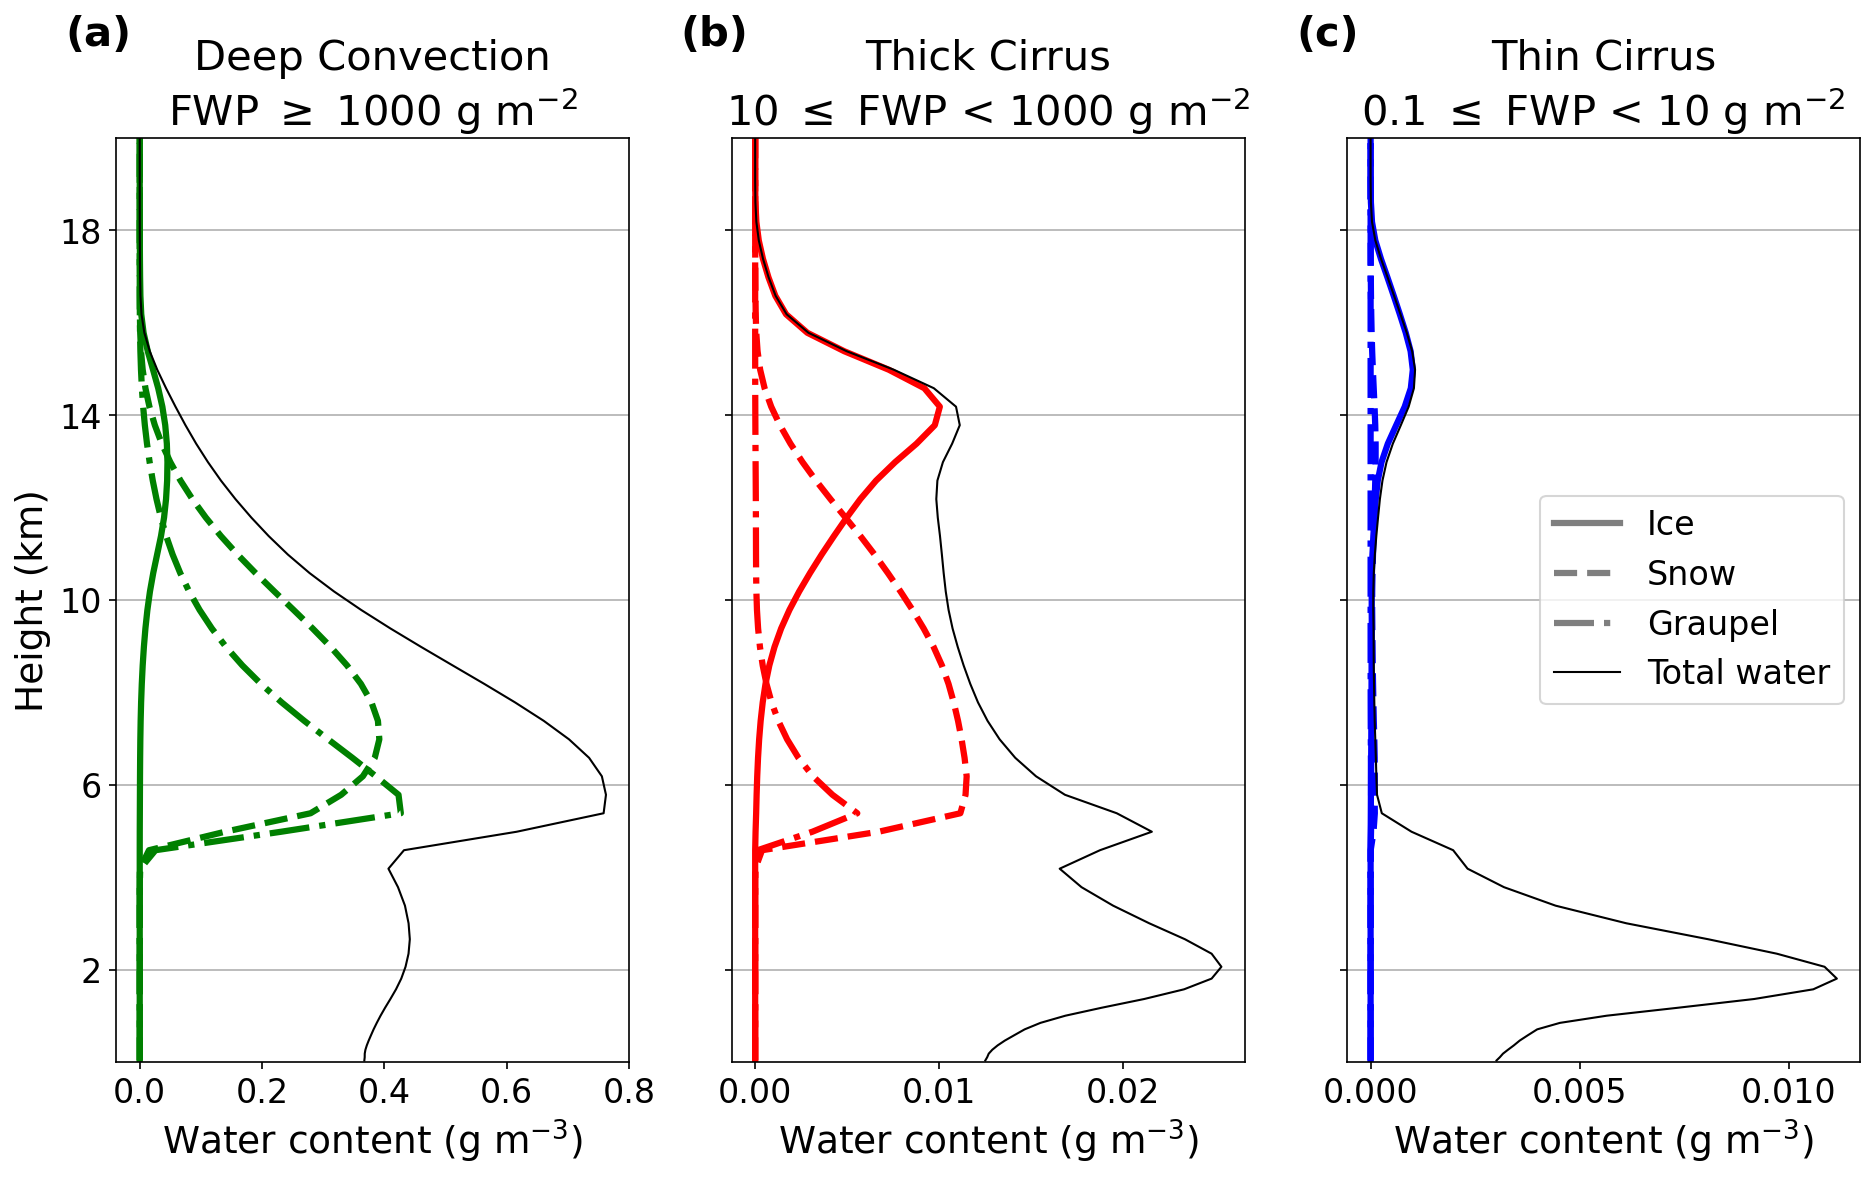
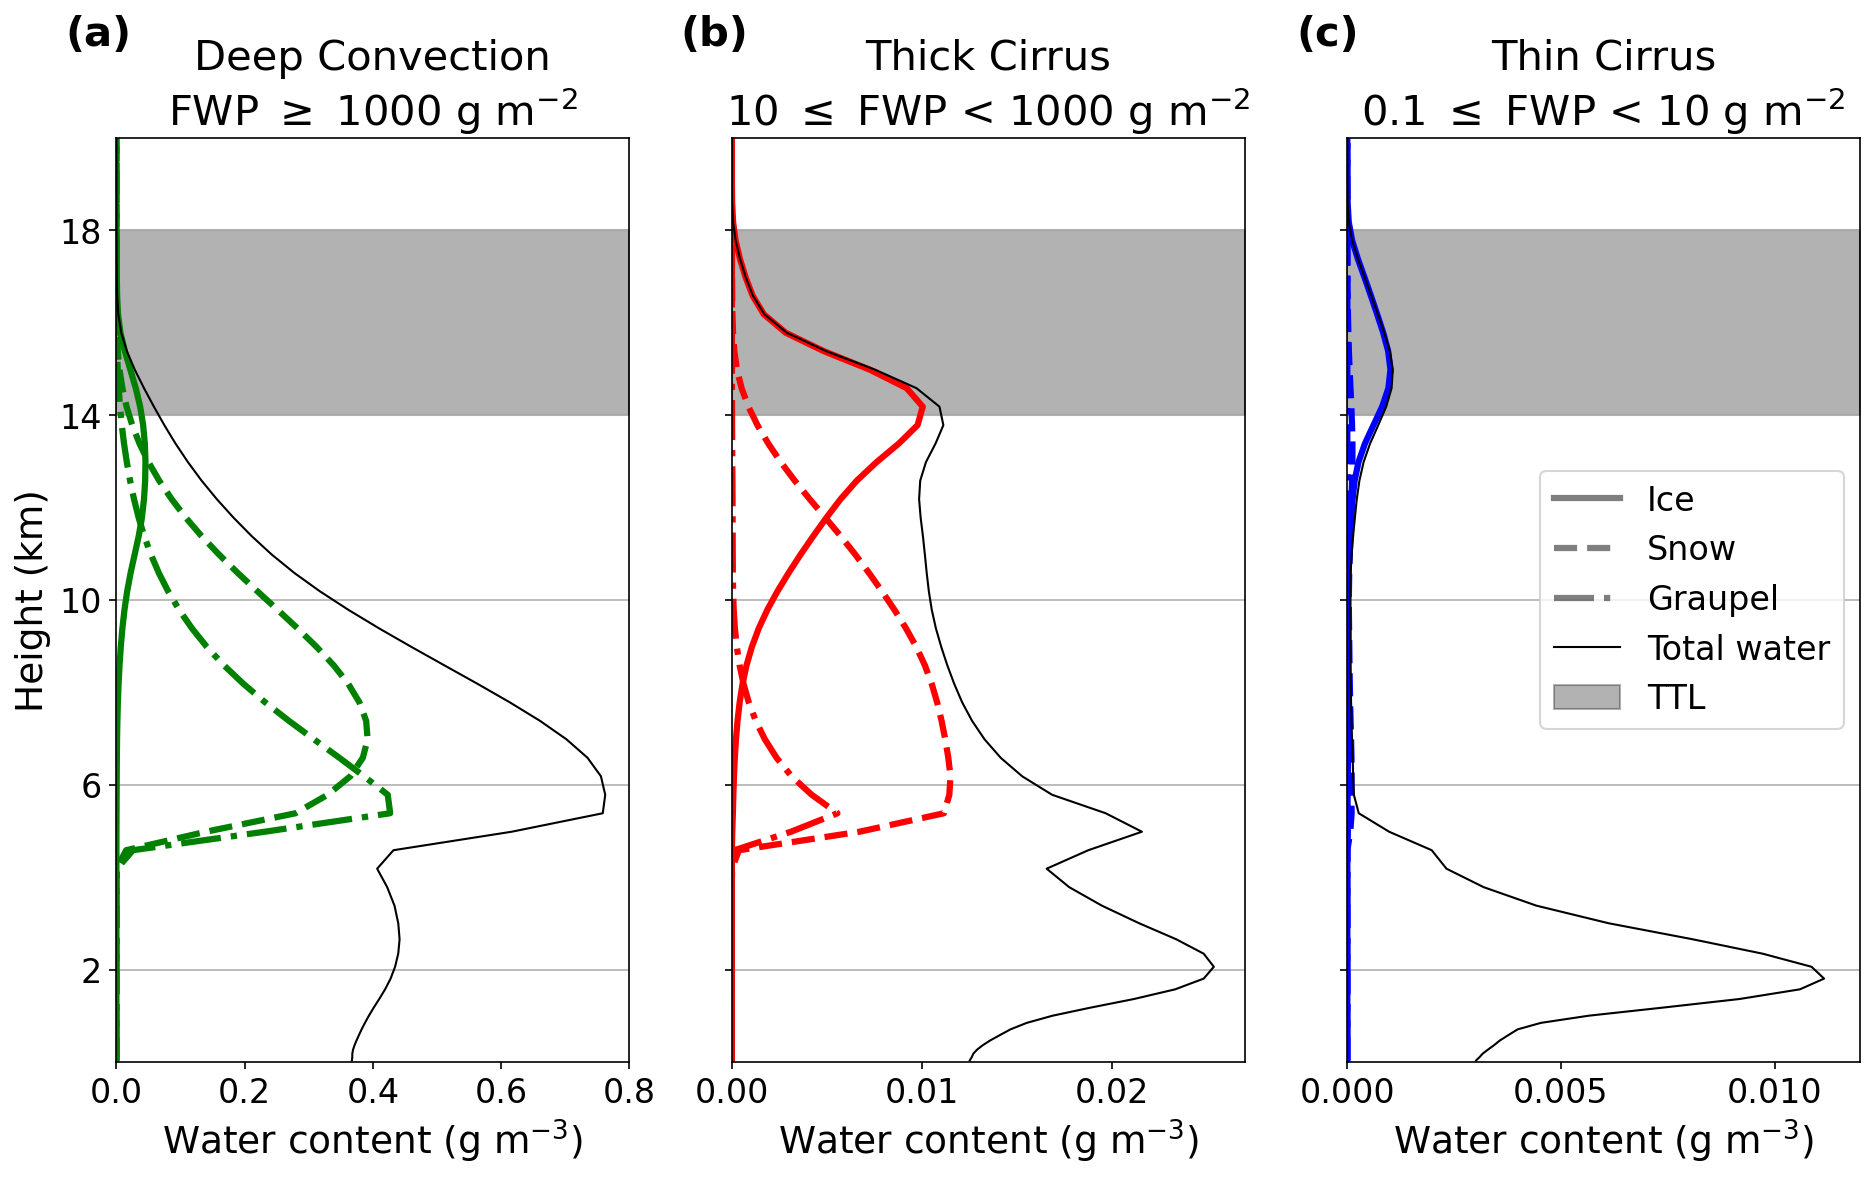
updates from reviewer feedback

diff --git a/python_scripts/fig11_iwp_all_regions.py b/python_scripts/fig11_iwp_all_regions.py
@@ -2,10 +2,10 @@
 """ fig11_iwp_all_regions.py
     Author: Sami Turbeville
     Updated: 18 Feb 2021
-    
+   
     This script reads in the frozen water path for FV3,
     SAM, GEOS, ICON and FV3. It then plots the histograms
-    compared to DARDAR. 
+    compared to DARDAR.
 """
 
 import numpy as np
@@ -191,9 +191,10 @@ print("creating figure...")
 # iax = fig.add_subplot(gs[1,1])
 # sax = fig.add_subplot(gs[1,2])
 
-fig, [[cax, nax, fax],[lax, iax, sax]] = plt.subplots(3,2,
+fig, [[cax, nax, fax],[lax, iax, sax]] = plt.subplots(2,3,
                                             sharey=True, sharex=True,
-                                            figsize=(20,8))
+                                            figsize=(21,8))
+lax.axis("off")
 
 s = 'tab:orange'
 n = 'tab:purple'
@@ -217,8 +218,8 @@ sax.axvline(3, color="k", alpha=0.4, linestyle="dashed")
 sax.axvline(1, color="k", alpha=0.4, linestyle="dashed")
 sax.axvline(-1, color="k", alpha=0.4, linestyle="dashed")
 
-cax.step(xedges[1:], chist_twp, t, label='TWP')
 cax.step(xedges[1:], chist_shl, s, label='SHL')
+cax.step(xedges[1:], chist_twp, t, label='TWP')
 cax.step(xedges[1:], chist_nau, n, label='NAU')
 
 fax.step(xedges[1:], fhist_twp, color=t)
@@ -383,24 +384,24 @@ sno = int(np.nanmean([sno_twp, sno_shl, sno_nau]))
 # iax.set_title("ICON\n {:} profiles".format(ino), size=17)
 # sax.set_title("SAM \n {:} profiles".format(sno), size=17)
 
-sax.set_xlabel("log$_{10}$FWP (g/m$^{-2}$)", fontsize=fs-2)
-cax.set_xlabel("log$_{10}$FWP (g/m$^{-2}$)", fontsize=fs-2)
-iax.set_xlabel("log$_{10}$FWP (g/m$^{-2}$)", fontsize=fs-2)
+sax.set_xlabel("log$_{10}$FWP (g~m$^{-2}$)", fontsize=fs)
+cax.set_xlabel("log$_{10}$FWP (g~m$^{-2}$)", fontsize=fs)
+iax.set_xlabel("log$_{10}$FWP (g~m$^{-2}$)", fontsize=fs)
 
 # cax.set_xticklabels([])
 # iax.set_xticklabels([])
-fax.set_xticklabels([])
-nax.set_xticklabels([])
-nax.set_yticklabels([])
-fax.set_yticklabels([])
-sax.set_yticklabels([])
+# fax.set_xticklabels([])
+# nax.set_xticklabels([])
+# nax.set_yticklabels([])
+# fax.set_yticklabels([])
+# sax.set_yticklabels([])
 sax.set_title("SAM", fontsize=fs+2)
 nax.set_title("NICAM", fontsize=fs+2)
 fax.set_title("FV3", fontsize=fs+2)
 iax.set_title("ICON", fontsize=fs+2)
 cax.set_title(obs, fontsize=fs+2)
-cax.set_ylabel("Fraction of profiles", fontsize=fs-2)
-iax.set_ylabel("Fraction of profiles", fontsize=fs-2)
+cax.set_ylabel("Fraction of profiles", fontsize=fs)
+iax.set_ylabel("Fraction of profiles", fontsize=fs)
 cax.tick_params(labelsize=fs-2)
 iax.tick_params(labelsize=fs-2)
 sax.tick_params(labelsize=fs-2)
@@ -414,7 +415,7 @@ sax.annotate("(e)", xy=(-0.1, 1.1), xycoords="axes fraction", fontsize=fs+4, wei
 cax.tick_params(labelsize=fs-4)
 
 h,l = cax.get_legend_handles_labels()
-fig.legend(h,l,bbox_to_anchor=(0.2,0.4), fontsize=fs, title="Regions", title_fontsize=fs+6)
+lax.legend(h,l,loc="center", fontsize=fs, title="Regions", title_fontsize=fs+6)
 
 ticks = np.arange(-3,4,1)
 cax.set_xticks(ticks)

diff --git a/python_scripts/fig02_3drendering_fv3.py b/python_scripts/fig02_3drendering_fv3.py
@@ -78,22 +78,15 @@ fs = 14
 fig = plt.figure(figsize=(15,7))
 ax = fig.add_subplot(111, projection="3d")
 ax.view_init(30,-255) #-220
-sc = ax.scatter((x3d[::zskip,::xskip,::yskip]).flatten()[in_cloud], \
-                (y3d[::zskip,::xskip,::yskip]).flatten()[in_cloud], \
+sc = ax.scatter((y3d[::zskip,::xskip,::yskip]).flatten()[in_cloud], \
+                (x3d[::zskip,::xskip,::yskip]).flatten()[in_cloud], \
                 (z3d[::zskip,::xskip,::yskip]).flatten()[in_cloud]/1000,\
                 c=(qn[::zskip,::xskip,::yskip].values.flatten())[in_cloud], \
                 edgecolors='face', vmax=0.6, vmin=0.1,\
                 s=4*xskip, cmap=new_cmap, depthshade=True) #vmax = np.max(qn[:,:,:])/1.5,
-# if not(is_one_by_one):
-#     ax.plot([  0,  0,  -1,  -1,  0,  0, 0, -1, -1, 0],
-#             [147,148,148,147,147,147,148,148,147,147],
-#             [ 20 ,20, 20, 20, 20,  0, 0, 0, 0, 0], c='r')
-#     ax.plot([    0,  0,  0,  0,  -1,  -1,  -1,  -1,  -1],
-#             [147,147,148,148,148,148,148,147,147],
-#             [ 0 , 20, 20, 0,  0,  20, 20, 20, 0], c='r')
 ax.set_zlim(0,20)
-ax.set_ylabel("\nLongitude ($^\circ$E)", fontsize=fs)
-ax.set_xlabel("\nLatitude ($^\circ$N)", fontsize=fs)
+ax.set_ylabel("\nLatitude ($^\circ$N)", fontsize=fs)
+ax.set_xlabel("\nLongitude ($^\circ$E)", fontsize=fs)
 ax.set_zlabel("Height (km)", fontsize=fs)
 if is_one_by_one:
     ax.set_yticks(np.arange(147,148,0.2))
@@ -101,10 +94,6 @@ if is_one_by_one:
     ax.set_xticks(np.arange(-1,0,0.2))
     ax.set_xticklabels([-1,None,-0.6,None,-0.2,None])
     ax.annotate("(b)", xycoords="axes fraction", xy=(0.55,-0.1), fontsize=fs+4)
-# else:
-#     ax.annotate("(a)", xycoords="axes fraction", xy=(0.55,-0.1), fontsize=fs+4)
-
-# ax.set_title(model + ", " + tstring)
 cbar = plt.colorbar(sc, ax=ax, shrink=0.6, extend="max")
 cbar.set_label("water content (g m$^{-3}$)", fontsize=fs-2)
 ax.w_xaxis.set_pane_color((.5,.58,1.0))
@@ -115,8 +104,8 @@ cbar.ax.tick_params(labelsize=fs-2)
 if is_one_by_one:
     plt.savefig("../plots/fig01_cloud3d.png", transparent=False, dpi=200, bbox_inches="tight", pad_inches=0.2)
 else:
+    ax.invert_yaxis()
     ax.invert_xaxis()
-    plt.savefig("../plots/fig01_cloud3d_10x10_long{}_x{}_y{}.png".format(t,xskip,yskip), transparent=False, dpi=200, bbox_inches="tight", pad_inches=0.2)
+    plt.savefig("../plots/fig01_cloud3d_10x10_long_revised_0.png", transparent=False, dpi=200, bbox_inches="tight", pad_inches=0.2)
 plt.close()
-
-# %%
+print("saved")

diff --git a/python_scripts/fig01_study_domain_initialSSTs.py b/python_scripts/fig01_study_domain_initialSSTs.py
@@ -19,7 +19,7 @@ fig = plt.figure(figsize=(14,3))
 ax = plt.axes(projection=ccrs.PlateCarree())
 ax.stock_img()
 ax.coastlines()
-cs = var.plot.contourf(x='lon',levels=np.arange(290,305,1), extend='both',cmap='coolwarm', add_colorbar=False)
+cs = var.plot.contourf(x='lon',levels=np.arange(290,305,1), extend='both',cmap='Blues_r', add_colorbar=False)
 ax.plot([-3,7,7,-3,-3],[9,9,19,19,9], 'k--', lw=2)
 ax.plot([143,153,153,143,143],[5,5,-5,-5,5], 'k', lw=2)
 ax.plot([163,173,173,163,163],[5,5,-5,-5,5], 'k--', lw=2)
@@ -32,8 +32,8 @@ ax.set_ylim([-20,20])
 # plt.xlim([100,180])
 ax.set_xlim([-5,180])
 # plt.xticks(np.arange(100,181,10))
-ax.set_xticks(np.arange(-10,181,10), minor=False)
-ax.set_yticks(np.arange(-20,21,5), minor=False)
+ax.set_xticks(ticks=np.arange(-10,181,10), minor=False)
+ax.set_yticks(ticks=np.arange(-20,21,5), minor=False)
 ax.set_xlabel('Longitude', fontsize=fs-2)
 ax.set_ylabel('Latitude', fontsize=fs-2)
 cbar = plt.colorbar(cs, shrink=0.8, ax=ax, pad=0.01)
@@ -41,6 +41,6 @@ cbar.set_label('Temperature (K)', fontsize=fs-2)
 cbar.ax.tick_params(labelsize=fs-2)
 plt.tick_params(labelsize=fs-2)
 ax.set_title("")
-plt.savefig('../plots/fig01_study_domains.png',dpi=200, bbox_inches="tight")
-print("saved as ../plots/fig01_study_domains.png")
+plt.savefig('../plots/fig01_study_domains_mono.png',dpi=200, bbox_inches="tight")
+print("saved as ../plots/fig01_study_domains_mono.png")
 plt.close()

diff --git a/python_scripts/fig03_nicam_iwc_cat_profiles.py b/python_scripts/fig03_nicam_iwc_cat_profiles.py
@@ -46,7 +46,9 @@ f=1000
 fs = 20
 a = 0.4
 lw = 3
-
+ax1.fill_between([0,0.8],14,18,color='black',alpha=0.3)
+ax2.fill_between([0,0.027],14,18, color='black',alpha=0.3)
+ax3.fill_between([0,0.012],14,18,color='black',alpha=0.3, label="TTL")
 ax1.plot(f*iwc1, z/f, 'g', lw=lw)
 ax2.plot(f*iwc2, z/f, 'r', lw=lw)
 ax3.plot(f*iwc3, z/f, 'b', lw=lw)
@@ -63,6 +65,10 @@ ax3.plot([0,0], [0,0], color='k', alpha=0.5, lw=lw, label="Ice")
 ax3.plot([0,0], [0,0], 'k--', alpha=0.5, lw=lw, label="Snow")
 ax3.plot([0,0], [0,0], 'k-.', alpha=0.5, lw=lw, label="Graupel")
 ax3.plot([0,0], [0,0], 'k', lw=lw-2, label="Total water")
+
+ax1.set_xlim([0,0.8])
+ax2.set_xlim([0,0.027])
+ax3.set_xlim([0,0.012])
 
 ax1.set_xlabel("Water content (g m$^{-3}$)", fontsize=fs-2)
 ax2.set_xlabel("Water content (g m$^{-3}$)", fontsize=fs-2)
